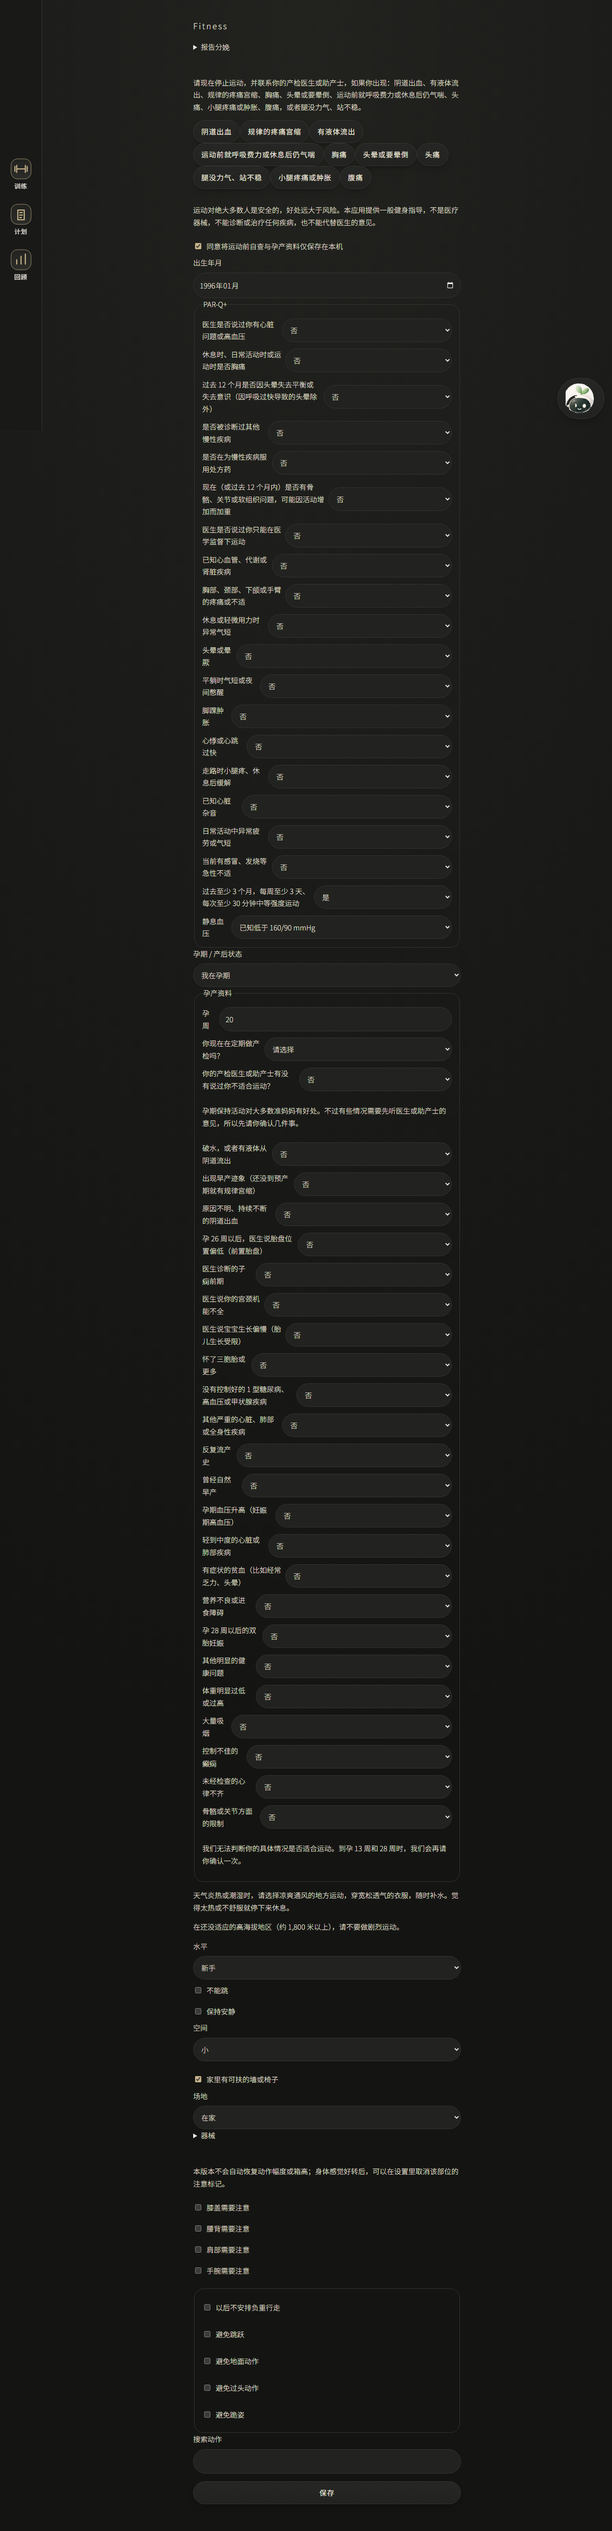
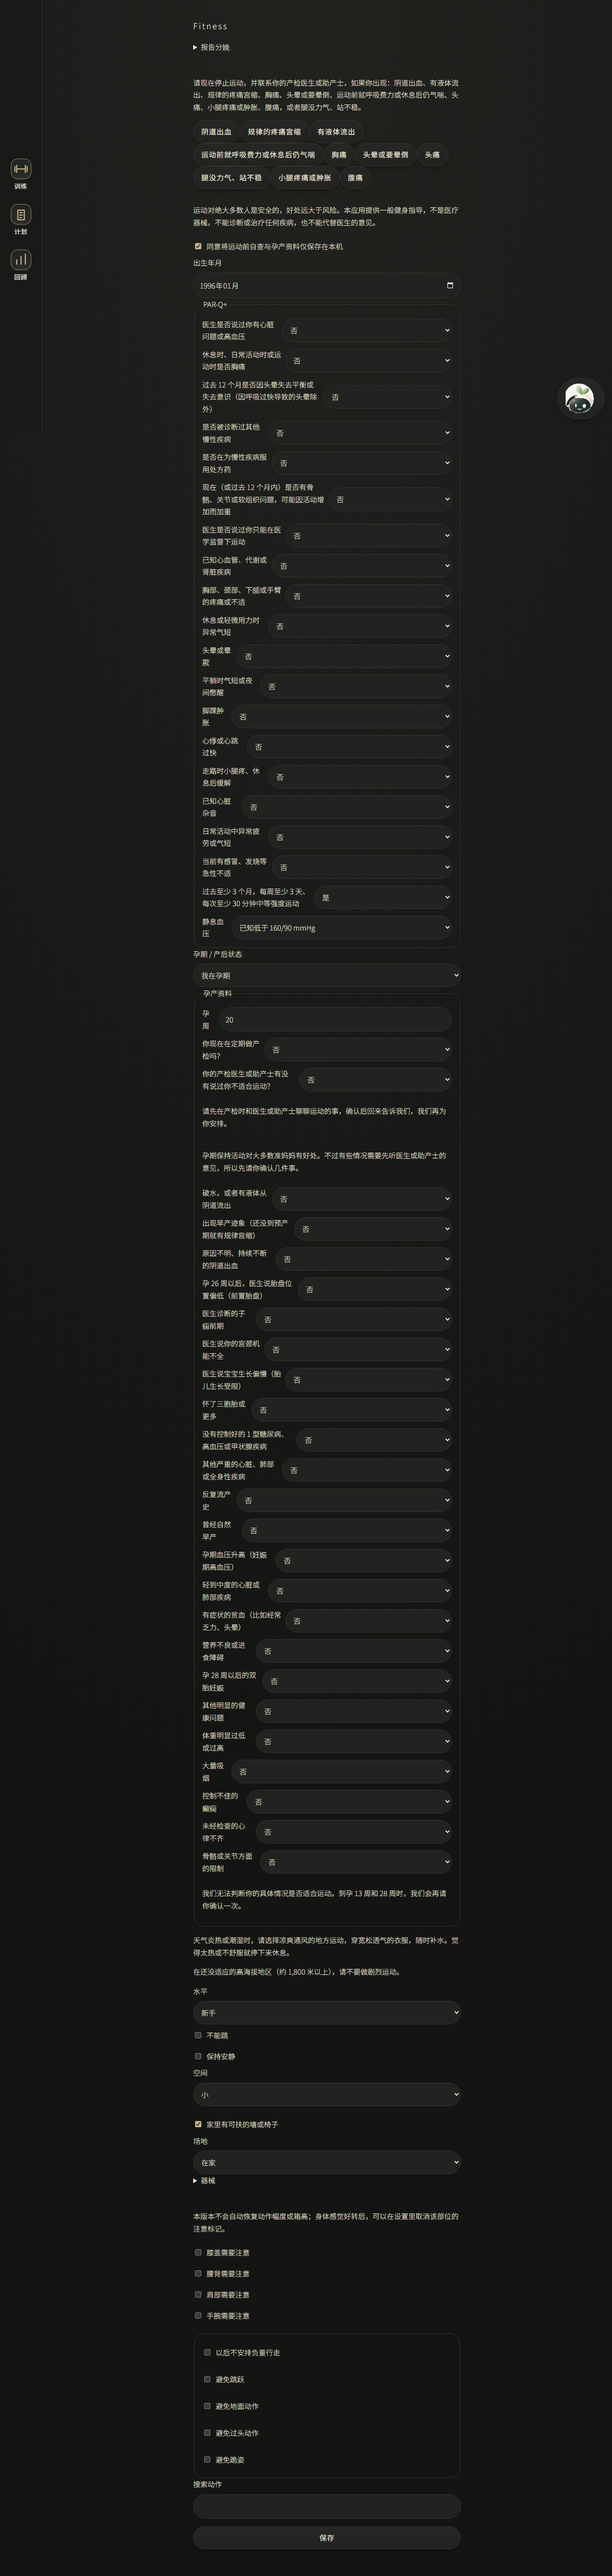
test: isolate prenatal theme matrix without changing timeouts

diff --git a/tests/e2e/acog-pregnancy.spec.ts b/tests/e2e/acog-pregnancy.spec.ts
@@ -52,7 +52,7 @@ test("inactive pregnancy first week adopts a bounded plan and preserves the ramp
 
 test("an applied legacy plan stays startable while new generation waits for the prenatal answer", async ({
   page,
-}, info) => {
+}) => {
   const result = await page.evaluate(async () => {
     const path = "/tests/e2e/helpers/acog-pregnancy-seed.ts";
     return (await import(/* @vite-ignore */ path)).seedAcogPregnancy(true);
@@ -78,21 +78,47 @@ test("an applied legacy plan stays startable while new generation waits for the 
       { exact: true },
     ),
   ).toBeVisible();
-  for (const [id, label] of [
-    ["qingci", "青瓷"],
-    ["liubai", "留白"],
-    ["jingshe", "静奢"],
-    ["zhuangse", "撞色"],
-  ]) {
+  const started = await page.evaluate(async (templateId) => {
+    const path = "/src/ui/mainline/context.tsx";
+    return (await import(/* @vite-ignore */ path)).workflow.start(templateId);
+  }, result.version.templates[0].id);
+  expect(started.planVersionId).toBe(result.version.id);
+  await page.goto("/workout/" + started.id);
+  await page.getByRole("button", { name: "暂停或结束", exact: true }).click();
+  await expect(
+    page.getByRole("button", { name: "继续训练", exact: true }),
+  ).toBeVisible();
+});
+
+for (const [id, label] of [
+  ["qingci", "青瓷"],
+  ["liubai", "留白"],
+  ["jingshe", "静奢"],
+  ["zhuangse", "撞色"],
+]) {
+  test(`prenatal question and layout in ${id} at 375 and 1280`, async ({
+    page,
+  }, info) => {
+    await page.evaluate(async () => {
+      const path = "/tests/e2e/helpers/acog-pregnancy-seed.ts";
+      await (await import(/* @vite-ignore */ path)).seedAcogPregnancy(true);
+    });
     await page.goto("/settings/appearance");
     await page.getByRole("button", { name: label, exact: true }).click();
+    await expect(page.locator("html")).toHaveAttribute("data-theme", id);
     await page.goto("/settings/engine");
     await expect(page.locator("html")).toHaveAttribute("data-theme", id);
+    const question = page.getByRole("combobox", {
+      name: "你现在在定期做产检吗？",
+      exact: true,
+    });
+    await expect(question).toBeVisible();
+    await question.selectOption("false");
     await expect(
-      page.getByRole("combobox", {
-        name: "你现在在定期做产检吗？",
-        exact: true,
-      }),
+      page.getByText(
+        "请先在产检时和医生或助产士聊聊运动的事，确认后回来告诉我们，我们再为你安排。",
+        { exact: true },
+      ),
     ).toBeVisible();
     for (const width of [375, 1280]) {
       await page.setViewportSize({ width, height: 900 });
@@ -106,18 +132,8 @@ test("an applied legacy plan stays startable while new generation waits for the 
         fullPage: true,
       });
     }
-  }
-  const started = await page.evaluate(async (templateId) => {
-    const path = "/src/ui/mainline/context.tsx";
-    return (await import(/* @vite-ignore */ path)).workflow.start(templateId);
-  }, result.version.templates[0].id);
-  expect(started.planVersionId).toBe(result.version.id);
-  await page.goto("/workout/" + started.id);
-  await page.getByRole("button", { name: "暂停或结束", exact: true }).click();
-  await expect(
-    page.getByRole("button", { name: "继续训练", exact: true }),
-  ).toBeVisible();
-});
+  });
+}
 
 test("database19 upgrade preserves an unanswered prenatal field and applied plan bytes", async ({
   page,

diff --git a/docs/training-engine/acog804-implementation-validation.md b/docs/training-engine/acog804-implementation-validation.md
@@ -14,7 +14,7 @@
 ## 验证
 
 - 功能：3359通过；另全量诊断2通过，合计3361。29项既有外部/付费条件测试仍按原配置未运行，本次没有新增skip、移除断言或降低门槛。
-- Chromium与WebKit：6/6通过，含递增采用、旧计划继续/新生成阻断、数据库19→20不推断答案及幂等。四主题375/1280共16张浏览器截图，PR附Chromium8张。
+- Chromium与WebKit：14/14通过，含递增采用、旧计划继续/新生成阻断、数据库19→20不推断答案及幂等。四主题375/1280共16张浏览器截图，PR附Chromium8张。
 - typecheck、规则数据检查、样式检查、构建通过。规则总数377，新增的pregnancy.inactive.ramp为hard、pregnancy.copy.long_session为copy，原权重不变。
 - golden20、固定80、问题177：各自硬违规/空计划均0。80质量中位数0.767569、P10 0.588861，覆盖100%、时长达标100%。
 - 2200全量：2000真实分布+200极端，1808可生成、392健康阻断、失败0；硬违规0、空计划0、环境受限0。中位数0.768278，P10 0.600884；原始/单列±10%均97.9478%，覆盖100.00%。容量耗尽短课0；真实分布最低实际/课程目标90%，极端90.5%，低于50%均0。
@@ -104,3 +104,5 @@
 
 ### 远程CI补充
 首轮远程功能测试仅mobility-working-sets的生成加改进组合超过原5秒测试超时（5236ms），无断言失败。分阶段测量本地分别约1367/1246ms；把生成移到beforeAll准备，独立改进测试保留全部原断言及原超时，4项定向复测通过。仅改测试准备，不改引擎行为；最终远程CI另列PR。
+
+第二轮远程只有Chromium的旧计划+全主题连跑用例超过原30秒。将四主题截图分别独立为用例，全部原流程、主题、375/1280及无横滚断言保留；没有新增skip或延长超时。两种浏览器14/14本地通过。引擎及应用输出未变，不重复本地全量，远程完整CI仍照常运行。
